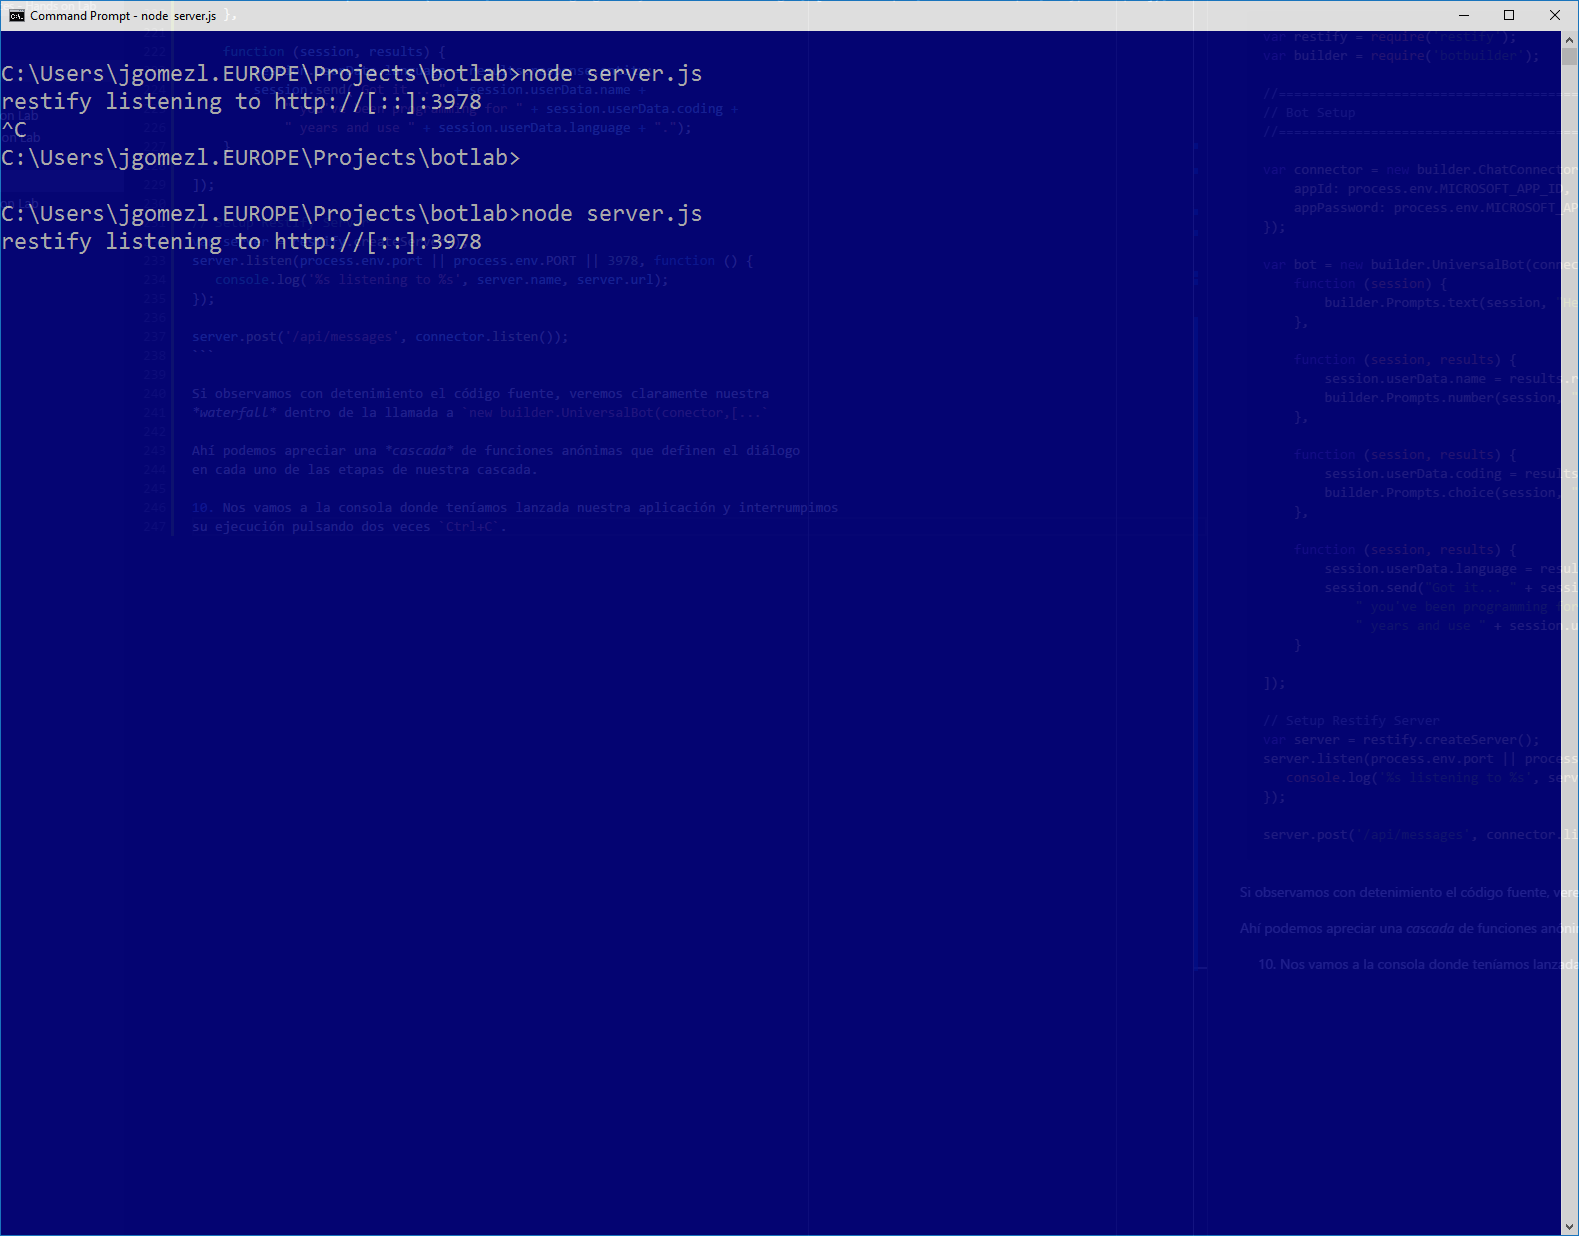
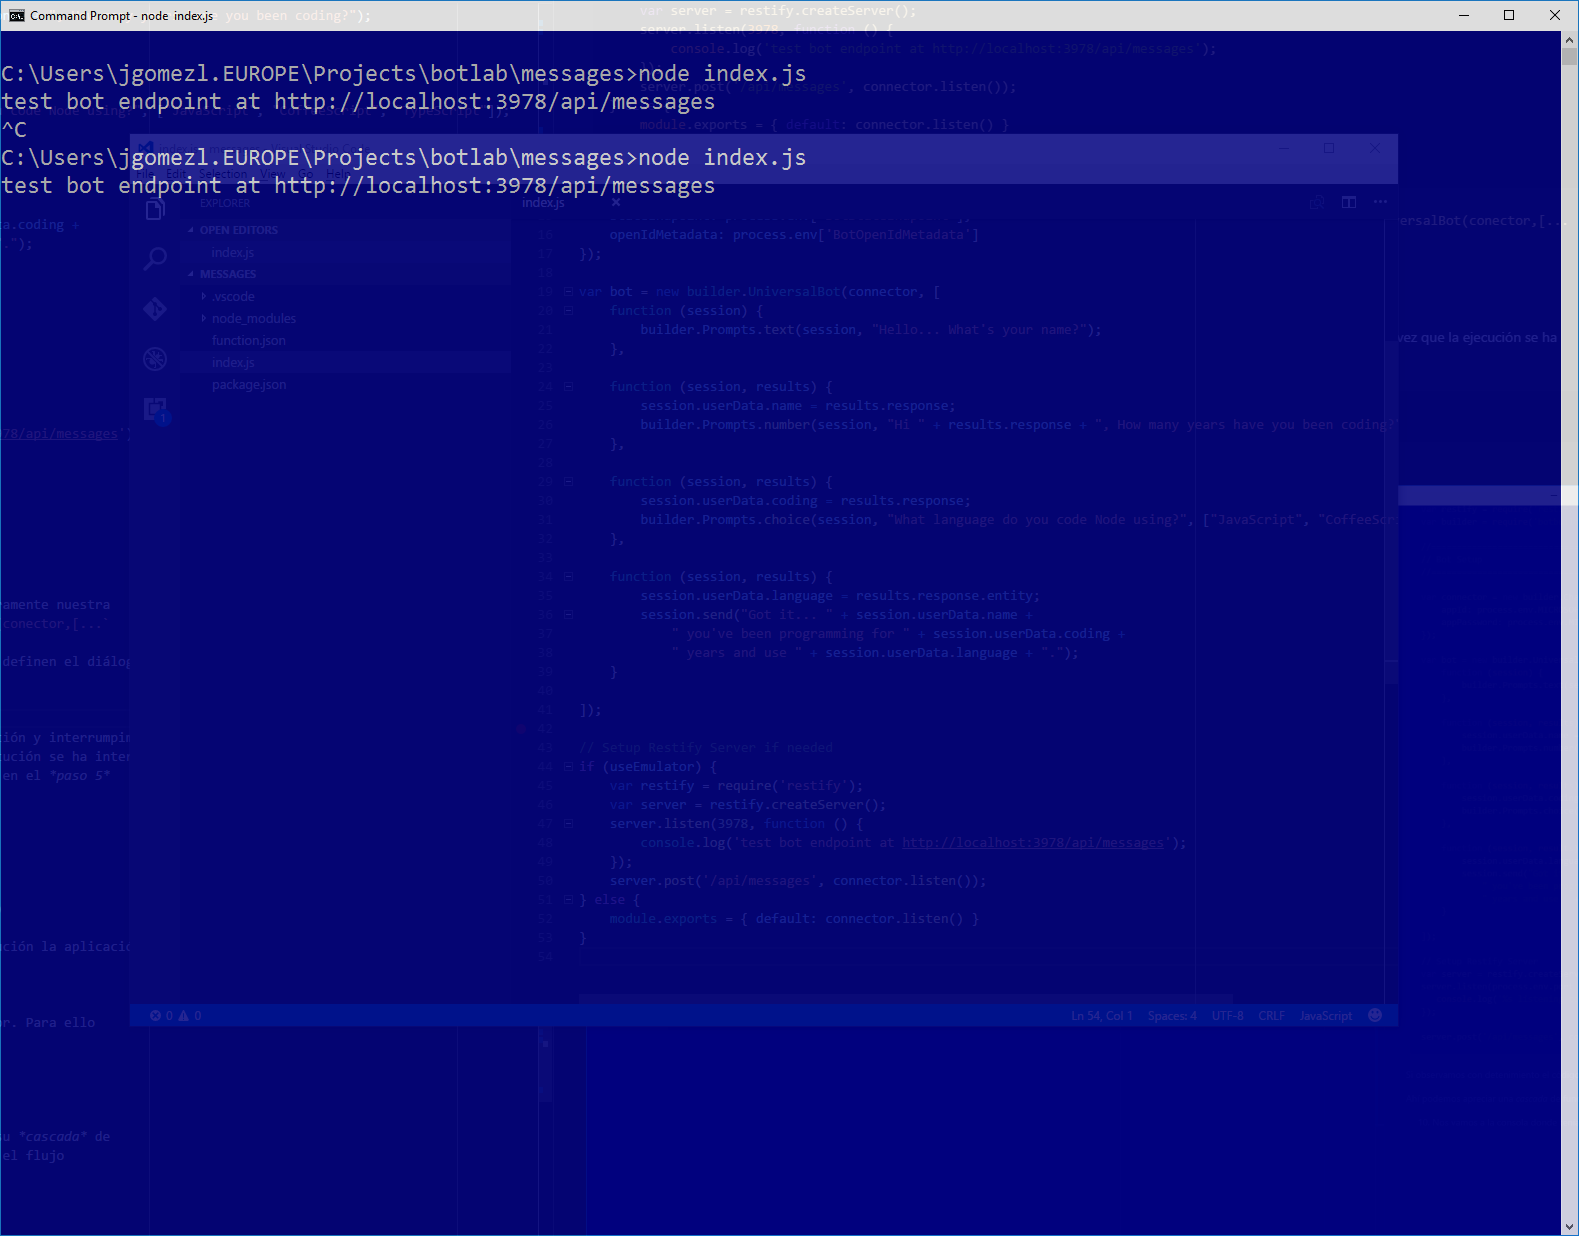
Reorganized to match Azure Bot Service flow

diff --git a/03. Cognitive Services - Hands on Lab/README.md b/03. Cognitive Services - Hands on Lab/README.md
@@ -4,11 +4,11 @@
   * [REQUERIMIENTOS HARDWARE](#requerimientos-hardware)
   * [REQUERIMIENTOS SOFTWARE](#requerimientos-software)
   * [OTROS REQUERIMIENTOS](#otros-requerimientos)
-* [PREPARACIÓN DEL PROYECTO](#preparacion-del-proyecto)
+* [CREACIÓN DE LA SOLUCIÓN INICIAL EN AZURE](#creacion-de-la-solucion-inicial-en-azure)
+* [BOT DE INTERACCIÓN BÁSICA](#bot-de-interaccion-basica)
 * [GENERACIÓN DEL SERVIDOR WEB PARA EL BOT](#generacion-del-servidor-web-para-el-bot)
 * [INTERACCIÓN BÁSICA CON NUESTRO BOT](#interaccion-basica-con-nuestro-bot)
 * [INTERACCIÓN AVANZADA CON NUESTRO BOT](#interaccion-avanzada-con-nuestro-bot)
-* [DESPLIEGUE DE LA SOLUCIÓN EN AZURE](#despliegue-de-la-solucion-en-azure)
 
 ## INTRODUCCIÓN
 En este hands-on-lab vamos a desarrollar un "bot" utilizando **Bot Framework SDK**
@@ -41,7 +41,84 @@ un servidor web visible en internet
 Para más información visitar la siguiente 
 [página](https://www.microsoft.com/cognitive-services/en-us/)  
 
-## PREPARACIÓN DEL PROYECTO
+## CREACIÓN DE LA SOLUCIÓN INICIAL EN AZURE
+Ahora, vamos a intentar desplegar nuestro bot en Azure. Para ello precisamos de
+una subscripción activa de Azure y su correspondiente acceso con las autorizaciones
+pertinentes para poder crear recursos en dicha subscripción.
+
+### Paso 1
+Accedemos al [portal de administración de Azure](https://portal.azure.com) y
+creamos una nueva instancia de **Bot Service** siguiendo las siguientes 
+opciones del portal `New > Intelligence+analytics > Bot Service`
+
+![Creación de un Bot Service](./images/img1-step13.png)
+
+### Paso 2 
+
+Nos aparecerá un cuadro de diálogo donde deberemos introducir los datos básicos
+de identificación y ubicación de nuestro bot.
+
+![Datos básicos de Bot Service](./images/img1-step14.png)
+
+Una vez introducidos los datos, y si estos son correctos, pulsamos `Create`. Esto 
+nos creará una instancia de un Bot Service. Volvemos al inicio del portal y 
+localizamos dicha instancia y accedemos a su "blade" de administración.
+
+Dentro del blade tendremos la posibilidad de crear un **Microsoft App ID** y una 
+password para nuestro bot. Pulsamos en el boton correspondiente.
+
+![Creación de Microsoft App ID y Password](./images/img2-step14.png)
+
+_En caso de que ya tuvieramos creado el bot anteriormente dentro del portal 
+de Bot Framework, también podríamos pegar sus datos en los campos correspondientes
+del formulario_
+
+Al pulsar en el boton de creación nos aparecerá una pantalla adicional donde 
+tendremos el nombre de nuestro bot y su correspondiente **Microsoft App ID**
+
+![Microsoft App ID y Password](./images/img3-step14.png)
+
+Pulsamos en el boton para generar la password de nuestro bot. Nos aparecerá un 
+cuadro de diálogo con la password. 
+
+**Es importante tomar nota de dicha password**
+
+![Obtención password de nuetro bot](./images/img4-step14.png)
+
+Cerramos el cuadro de diálogo y también pulsa en el boton de finalización.
+
+![Finalización proceso de Microsoft App ID y Password](./images/img5-step14.png)
+
+Volvemos al *blade* de creación del bot con los datos y solo habremos de pegar 
+la password obtenida, seleccionar el lenguaje en que hemos programado nuestro bot (NodeJS) 
+y seleccionaremos la plantilla básica. Finalmente pulsamos sobre el botón de `Crear Bot`
+
+![Creación de bot](./images/img6-step14.png)
+
+![Progreso de creación de bot](./images/img7-step14.png)
+
+### Paso 3
+
+Al crear la instancia de **Bot Service** tendremos ahora un *blade* desde el 
+que tendremos las herramientas necesarias para desarrollar, integrar, configurar 
+y publicar nuestro bot.
+
+![Blade administración bot](./images/img1-step15.png)
+
+### Paso 4
+
+Ahora vamos a descargarnos una versión inicial del código de nuestro bot para 
+empezar a trabajar sobre él. Para ello, en la pantalla anterior, nos vamos a la 
+pestaña de **Settings** la cual nos presentará la siguiente pantalla
+
+![Pantalla de ajustes del Bot Service](./images/img1-step16.png)
+
+
+Pulsamos sobre el desplegable de **Continuous Integration** y nos descargamos el 
+archivo comprimido con la solución inicial de nuestro bot (**Opción 1**) 
+guardándolo en algún directorio temporal.
+
+## BOT DE INTERACCIÓN BÁSICA
 
 ### Paso 1
 Primero creamos un proyecto de NodeJS donde albergaremos nuestro Bot. 
@@ -50,25 +127,20 @@ Para ello nos posicionamos en un directorio de trabajo y creamos un proyecto
  ```powershell
     C:\> mkdir botlab
     C:\> cd botlab
-    C:\botlab> npm init
-    <<rellenar las preguntas>>
-    ...
 ```
+
 ![Preparación del proyecto](./images/img1-step1.png)
 
-Ahora en este punto disponemos de un proyecto vacío con soporte para NodeJS.
-A partir de aquí tendremos que empezar a cargar las dependencias necesarias para
- que el proyecto funcione con el Bot Framework y LUIS.
+En dicho directorio descomprimiremos el fichero que nos hemos descargado en el 
+apartado anterior con el código inicial de nuestro bot.
 
 ### Paso 2
-En la misma consola y posicionados dentro del directorio de proyecto,
-cargaremos las dependencias del proyecto. Para ello utilizaremos las 
-siguientes instrucciones:
+Ahora, restauramos las dependencias de nuestro proyecto NodeJS con las siguientes 
+instrucciones:
 ```powershell
-C:\> npm install --save botbuilder
-…
-C:\> npm install --save restify
-…
+C:\botlab\> cd messages
+C:\botlab\messages\> npm install
+...
 ```
 
 ![Resolución de dependencias](./images/img1-step2.png)
@@ -81,14 +153,13 @@ Ahora deberemos empezar a incluir el código básico de nuestra aplicación.
 Abrimos Visual Studio Code dentro del directorio de la solución. 
 Para ello, desde la línea de comandos, introducimos la siguiente instrucción:
 ```powershell
-C:\> code . 
+C:\botlab\messages\> code . 
 ```
 Esto nos abrirá Visual Studio Code y abrirá la carpeta del proyceto. También
 podemos abrir Visual Studio Code desde el menú de inicio de Windows y una vez
 dentro del editor, utilizar la opción `File>Open Folder...` 
 
-Creamos el fichero inicial de nuestro proyecto (`server.js`). Esto lo 
-podemos realizar desde dentro del editor, utilizando la opción `File>New File...`
+Abrimos el fichero inicial de nuestro proyecto (`index.js`). 
 
 ![Creación fichero raíz del proyecto](./images/img1-step3.png)
 
@@ -97,30 +168,41 @@ podemos realizar desde dentro del editor, utilizando la opción `File>New File..
 ### Paso 4
 Llegados a este punto, primeramente, hemos de crear una aplicación de
 API REST que responda a las interacciones con los usuarios a través de los
-diferentes canales. Para ello, dentro del fichero `server.js` incluiremos 
+diferentes canales. Para ello, dentro del fichero `index.js` incluiremos 
 el siguiente código:
 
 ```javascript 
-var restify = require('restify');
-var builder = require('botbuilder');
+"use strict";
+var builder = require("botbuilder");
+var botbuilder_azure = require("botbuilder-azure");
+
+var useEmulator = (process.env.NODE_ENV == 'development');
 
 //=========================================================
 // Bot Setup
 //=========================================================
 
-// Setup Restify Server
-var server = restify.createServer();
-server.listen(process.env.port || process.env.PORT || 3978, function () {
-   console.log('%s listening to %s', server.name, server.url); 
-});
-  
 // Create chat bot
-var connector = new builder.ChatConnector({
-    appId: process.env.MICROSOFT_APP_ID,
-    appPassword: process.env.MICROSOFT_APP_PASSWORD
+var connector = useEmulator ? new builder.ChatConnector() : new botbuilder_azure.BotServiceConnector({
+    appId: process.env['MicrosoftAppId'],
+    appPassword: process.env['MicrosoftAppPassword'],
+    stateEndpoint: process.env['BotStateEndpoint'],
+    openIdMetadata: process.env['BotOpenIdMetadata']
 });
+
 var bot = new builder.UniversalBot(connector);
-server.post('/api/messages', connector.listen());
+// Setup Restify Server if needed
+if (useEmulator) {
+    var restify = require('restify');
+    var server = restify.createServer();
+    server.listen(3978, function () {
+        console.log('test bot endpoint at http://localhost:3978/api/messages');
+    });
+    server.post('/api/messages', connector.listen());
+} else {
+    module.exports = { default: connector.listen() }
+}
+
 
 //=========================================================
 // Bots Dialogs
@@ -129,6 +211,7 @@ server.post('/api/messages', connector.listen());
 bot.dialog('/', function (session) {
     session.send("Hello World");
 });
+
 ```
 
 Ahora disponemos de una aplicación REST API básica desarrollada con NodeJS
@@ -139,7 +222,7 @@ deberemos arrancar la aplicación web.
 Dentro de la consola de comandos posicionada dentro del directorio de la
 solución tecleamos la siguiente instrucción:
 ```powershell
-C:\botlab> node server.js
+C:\botlab\messages> node index.js
 ```
 
 ![Ejecución local de la aplicación web](./images/img1-step5.png)
@@ -202,16 +285,22 @@ un poco más inteligente y también haremos que reconozca el lenguaje natural
 Vamos a reemplazar el código de nuestro fichero `server.js` por el siguiente:
 
 ```javascript
-var restify = require('restify');
-var builder = require('botbuilder');
+"use strict";
+var builder = require("botbuilder");
+var botbuilder_azure = require("botbuilder-azure");
+
+var useEmulator = (process.env.NODE_ENV == 'development');
 
 //=========================================================
 // Bot Setup
 //=========================================================
 
-var connector = new builder.ChatConnector({
-    appId: process.env.MICROSOFT_APP_ID,
-    appPassword: process.env.MICROSOFT_APP_PASSWORD    
+// Create chat bot
+var connector = useEmulator ? new builder.ChatConnector() : new botbuilder_azure.BotServiceConnector({
+    appId: process.env['MicrosoftAppId'],
+    appPassword: process.env['MicrosoftAppPassword'],
+    stateEndpoint: process.env['BotStateEndpoint'],
+    openIdMetadata: process.env['BotOpenIdMetadata']
 });
 
 var bot = new builder.UniversalBot(connector, [
@@ -238,13 +327,18 @@ var bot = new builder.UniversalBot(connector, [
 
 ]);
 
-// Setup Restify Server
-var server = restify.createServer();
-server.listen(process.env.port || process.env.PORT || 3978, function () {
-   console.log('%s listening to %s', server.name, server.url); 
-});
-  
-server.post('/api/messages', connector.listen());
+// Setup Restify Server if needed
+if (useEmulator) {
+    var restify = require('restify');
+    var server = restify.createServer();
+    server.listen(3978, function () {
+        console.log('test bot endpoint at http://localhost:3978/api/messages');
+    });
+    server.post('/api/messages', connector.listen());
+} else {
+    module.exports = { default: connector.listen() }
+}
+
 ```
 
 Si observamos con detenimiento el código fuente, veremos claramente nuestra 
@@ -259,8 +353,9 @@ su ejecución pulsando dos veces `Ctrl+C`. Una vez que la ejecución se ha inter
 volvemos a lanzar la aplicación con la misma instrucción que en el *paso 5*
 
 ```powershell
-C:\botlab> node server.js
+C:\botlab\messages> node index.js
 ```
+
 ![Interrupción y relanzado del bot](./images/img1-step10.png)
 
 Si no hemos comentido ningún error volvermos a tener en ejecución la aplicación
@@ -278,70 +373,4 @@ preguntas. Al finalizar tendremos una conversación que sigue el flujo
 predefinido dentro de nuestra aplicación web.
 
 ![Reiniciar conversación](./images/img1-step12.png)
-
-## DESPLIEGUE DE LA SOLUCIÓN EN AZURE
-Ahora, vamos a intentar desplegar nuestro bot en Azure. Para ello precisamos de
-una subscripción activa de Azure y su correspondiente acceso con las autorizaciones
-pertinentes para poder crear recursos en dicha subscripción.
-
-### Paso 13
-Accedemos al [portal de administración de Azure](https://portal.azure.com) y
-creamos una nueva instancia de **Bot Service** siguiendo las siguientes 
-opciones del portal `New > Intelligence+analytics > Bot Service`
-
-![Creación de un Bot Service](./images/img1-step13.png)
-
-### Paso 14 
-
-Nos aparecerá un cuadro de diálogo donde deberemos introducir los datos básicos
-de identificación y ubicación de nuestro bot.
-
-![Datos básicos de Bot Service](./images/img1-step14.png)
-
-Una vez introducidos los datos, y si estos son correctos, pulsamos `Create`. Esto 
-nos creará una instancia de un Bot Service. Volvemos al inicio del portal y 
-localizamos dicha instancia y accedemos a su "blade" de administración.
-
-Dentro del blade tendremos la posibilidad de crear un **Microsoft App ID** y una 
-password para nuestro bot. Pulsamos en el boton correspondiente.
-
-![Creación de Microsoft App ID y Password](./images/img2-step14.png)
-
-_En caso de que ya tuvieramos creado el bot anteriormente dentro del portal 
-de Bot Framework, también podríamos pegar sus datos en los campos correspondientes
-del formulario_
-
-Al pulsar en el boton de creación nos aparecerá una pantalla adicional donde 
-tendremos el nombre de nuestro bot y su correspondiente **Microsoft App ID**
-
-![Microsoft App ID y Password](./images/img3-step14.png)
-
-Pulsamos en el boton para generar la password de nuestro bot. Nos aparecerá un 
-cuadro de diálogo con la password. 
-
-**Es importante tomar nota de dicha password**
-
-![Obtención password de nuetro bot](./images/img4-step14.png)
-
-Cerramos el cuadro de diálogo y también pulsa en el boton de finalización.
-
-![Finalización proceso de Microsoft App ID y Password](./images/img5-step14.png)
-
-Volvemos al *blade* de creación del bot con los datos y solo habremos de pegar 
-la password obtenida, seleccionar el lenguaje en que hemos programado nuestro bot (NodeJS) 
-y seleccionaremos la plantilla básica. Finalmente pulsamos sobre el botón de `Crear Bot`
-
-![Creación de bot](./images/img6-step14.png)
-
-![Progreso de creación de bot](./images/img7-step14.png)
-
-### Paso 15
-
-Al crear la instancia de **Bot Service** tendremos ahora un *blade* desde el 
-que tendremos las herramientas necesarias para desarrollar, integrar, configurar 
-y publicar nuestro bot.
-
-![Blade administración bot](./images/img1-step15.png)
-
-
 
